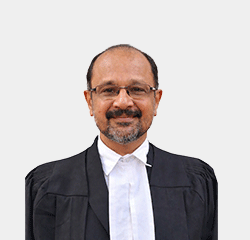
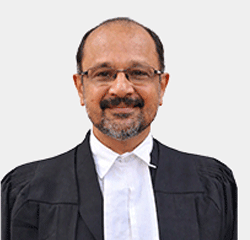
team image sections updates

diff --git a/team.html b/team.html
@@ -299,19 +299,10 @@
                         <h3 class="team-one__name">
                             <a href="team.html">P. Nandakumar</a>
                         </h3>
-
-                        <div class="team-one__social">
-                            <a href="#"><span class="icon-pinterest"></span></a>
-                            <a href="#"><span class="icon-linkedin"></span></a>
-                            <a href="#"><span class="icon-twitter"></span></a>
-                            <a href="#"><span class="icon-facebook-app-symbol"></span></a>
-                        </div>
                     </div>
 
                     <div class="team-one__img-box">
-                        <div class="team-one__shape-box">
-                            <div class="team-one__shape-1"></div>
-                        </div>
+                        
 
                         <div class="team-one__img">
                             <img src="assets/images/team/Nandakumar.png" alt="P Nandakumar">
@@ -320,7 +311,6 @@
 
                 </div>
             </div>
-
 
             <!-- Team Member 2 -->
             <div class="col-xl-3 col-lg-3 col-md-6 col-sm-6">
@@ -334,20 +324,8 @@
                         <h3 class="team-one__name">
                             <a href="team.html">Amrutha Sanjeev</a>
                         </h3>
-
-                        <div class="team-one__social">
-                            <a href="#"><span class="icon-pinterest"></span></a>
-                            <a href="#"><span class="icon-linkedin"></span></a>
-                            <a href="#"><span class="icon-twitter"></span></a>
-                            <a href="#"><span class="icon-facebook-app-symbol"></span></a>
-                        </div>
                     </div>
-
                     <div class="team-one__img-box">
-                        <div class="team-one__shape-box">
-                            <div class="team-one__shape-1"></div>
-                        </div>
-
                         <div class="team-one__img">
                             <img src="assets/images/team/Amrutha.png" alt="Amrutha Sanjeev">
                         </div>
@@ -369,19 +347,9 @@
                         <h3 class="team-one__name">
                             <a href="team.html">Vivek Vijayakumar</a>
                         </h3>
-
-                        <div class="team-one__social">
-                            <a href="#"><span class="icon-pinterest"></span></a>
-                            <a href="#"><span class="icon-linkedin"></span></a>
-                            <a href="#"><span class="icon-twitter"></span></a>
-                            <a href="#"><span class="icon-facebook-app-symbol"></span></a>
-                        </div>
                     </div>
 
                     <div class="team-one__img-box">
-                        <div class="team-one__shape-box">
-                            <div class="team-one__shape-1"></div>
-                        </div>
 
                         <div class="team-one__img">
                             <img src="assets/images/team/Vivek.png" alt="Vivek Vijayakumar">
@@ -404,19 +372,9 @@
                         <h3 class="team-one__name">
                             <a href="team.html">Dinesh S</a>
                         </h3>
-
-                        <div class="team-one__social">
-                            <a href="#"><span class="icon-pinterest"></span></a>
-                            <a href="#"><span class="icon-linkedin"></span></a>
-                            <a href="#"><span class="icon-twitter"></span></a>
-                            <a href="#"><span class="icon-facebook-app-symbol"></span></a>
-                        </div>
                     </div>
 
                     <div class="team-one__img-box">
-                        <div class="team-one__shape-box">
-                            <div class="team-one__shape-1"></div>
-                        </div>
 
                         <div class="team-one__img">
                             <img src="assets/images/team/Dinesh.png" alt="Dinesh S">

diff --git a/assets/css/style.css b/assets/css/style.css
@@ -3622,3 +3622,15 @@ padding:18px;
 }
 
 
+.team-one__img {
+    width: 100%;
+    height: 320px;        /* control card image height */
+    overflow: hidden;
+}
+
+.team-one__img img {
+    width: 100%;
+    height: 100%;
+    object-fit: cover;    /* fills the box properly */
+    display: block;
+}
